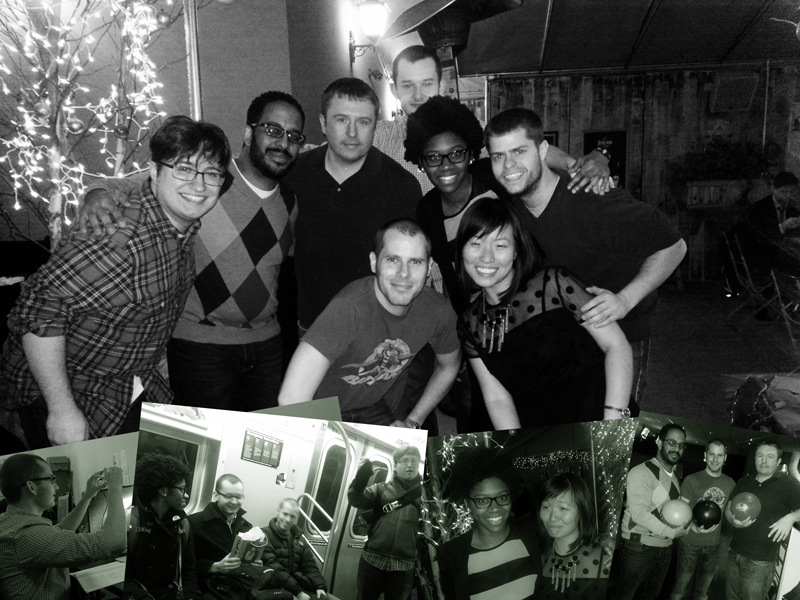
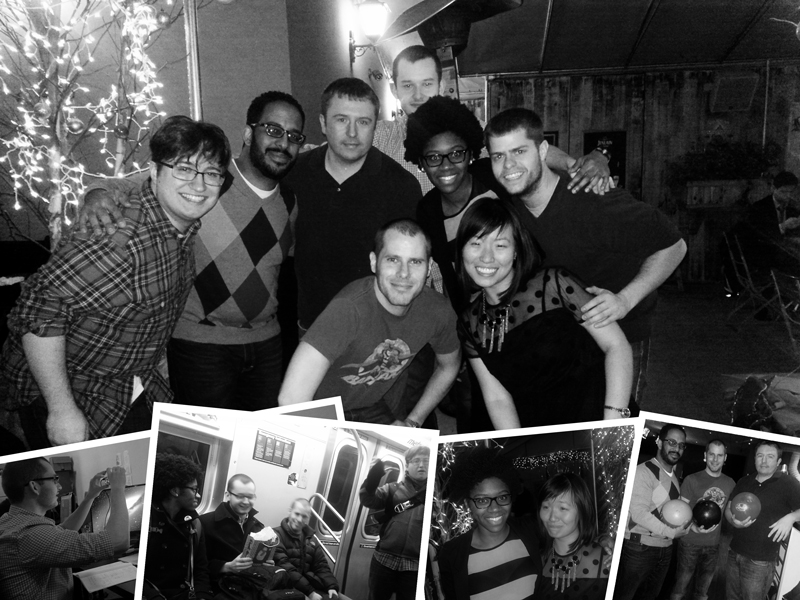
done

Changed region(s): [[0.0, 0.66, 1.0, 1.0], [0.0, 0.96, 0.0312, 0.99]]

diff --git a/index.html b/index.html
@@ -230,7 +230,7 @@
 		    </div>
 		    <div class="clear"></div>
 		    <div id="pic-team" class="grid_12">
-		    	<!-- img src="images/pic-team.jpg" alt="Touch Lab Team" / -->
+		    	<img src="images/theteam.jpg" alt="Touch Lab Team" />
 		    </div>
 		    <ul>
 		    	<li id="pic-kevin" class="grid_2 pic">
